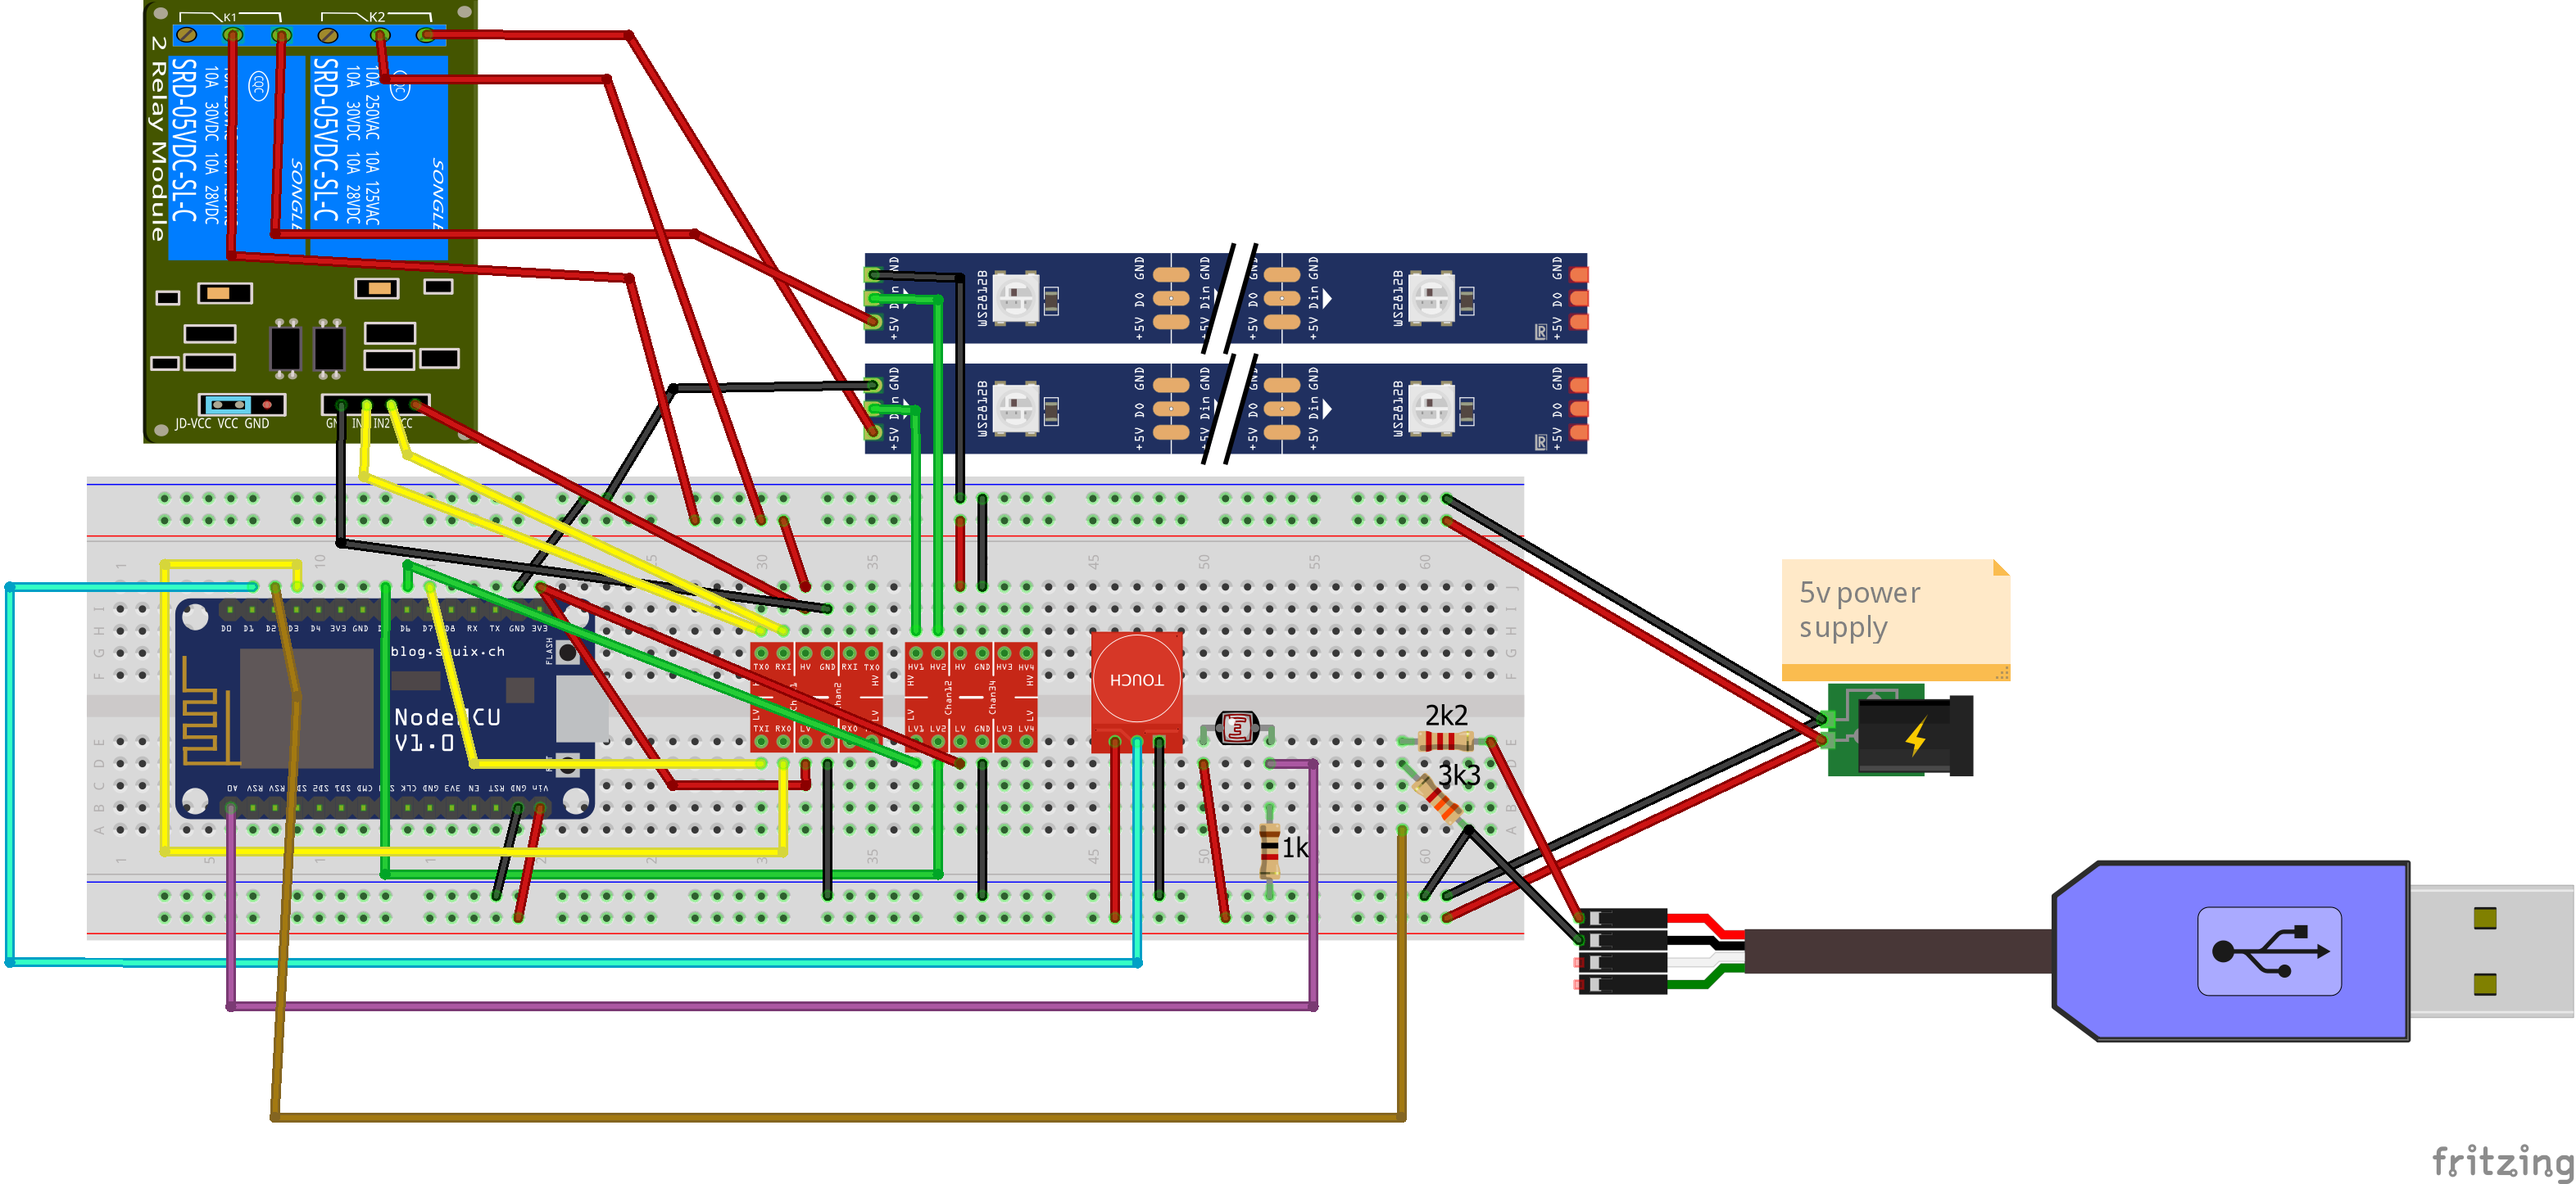
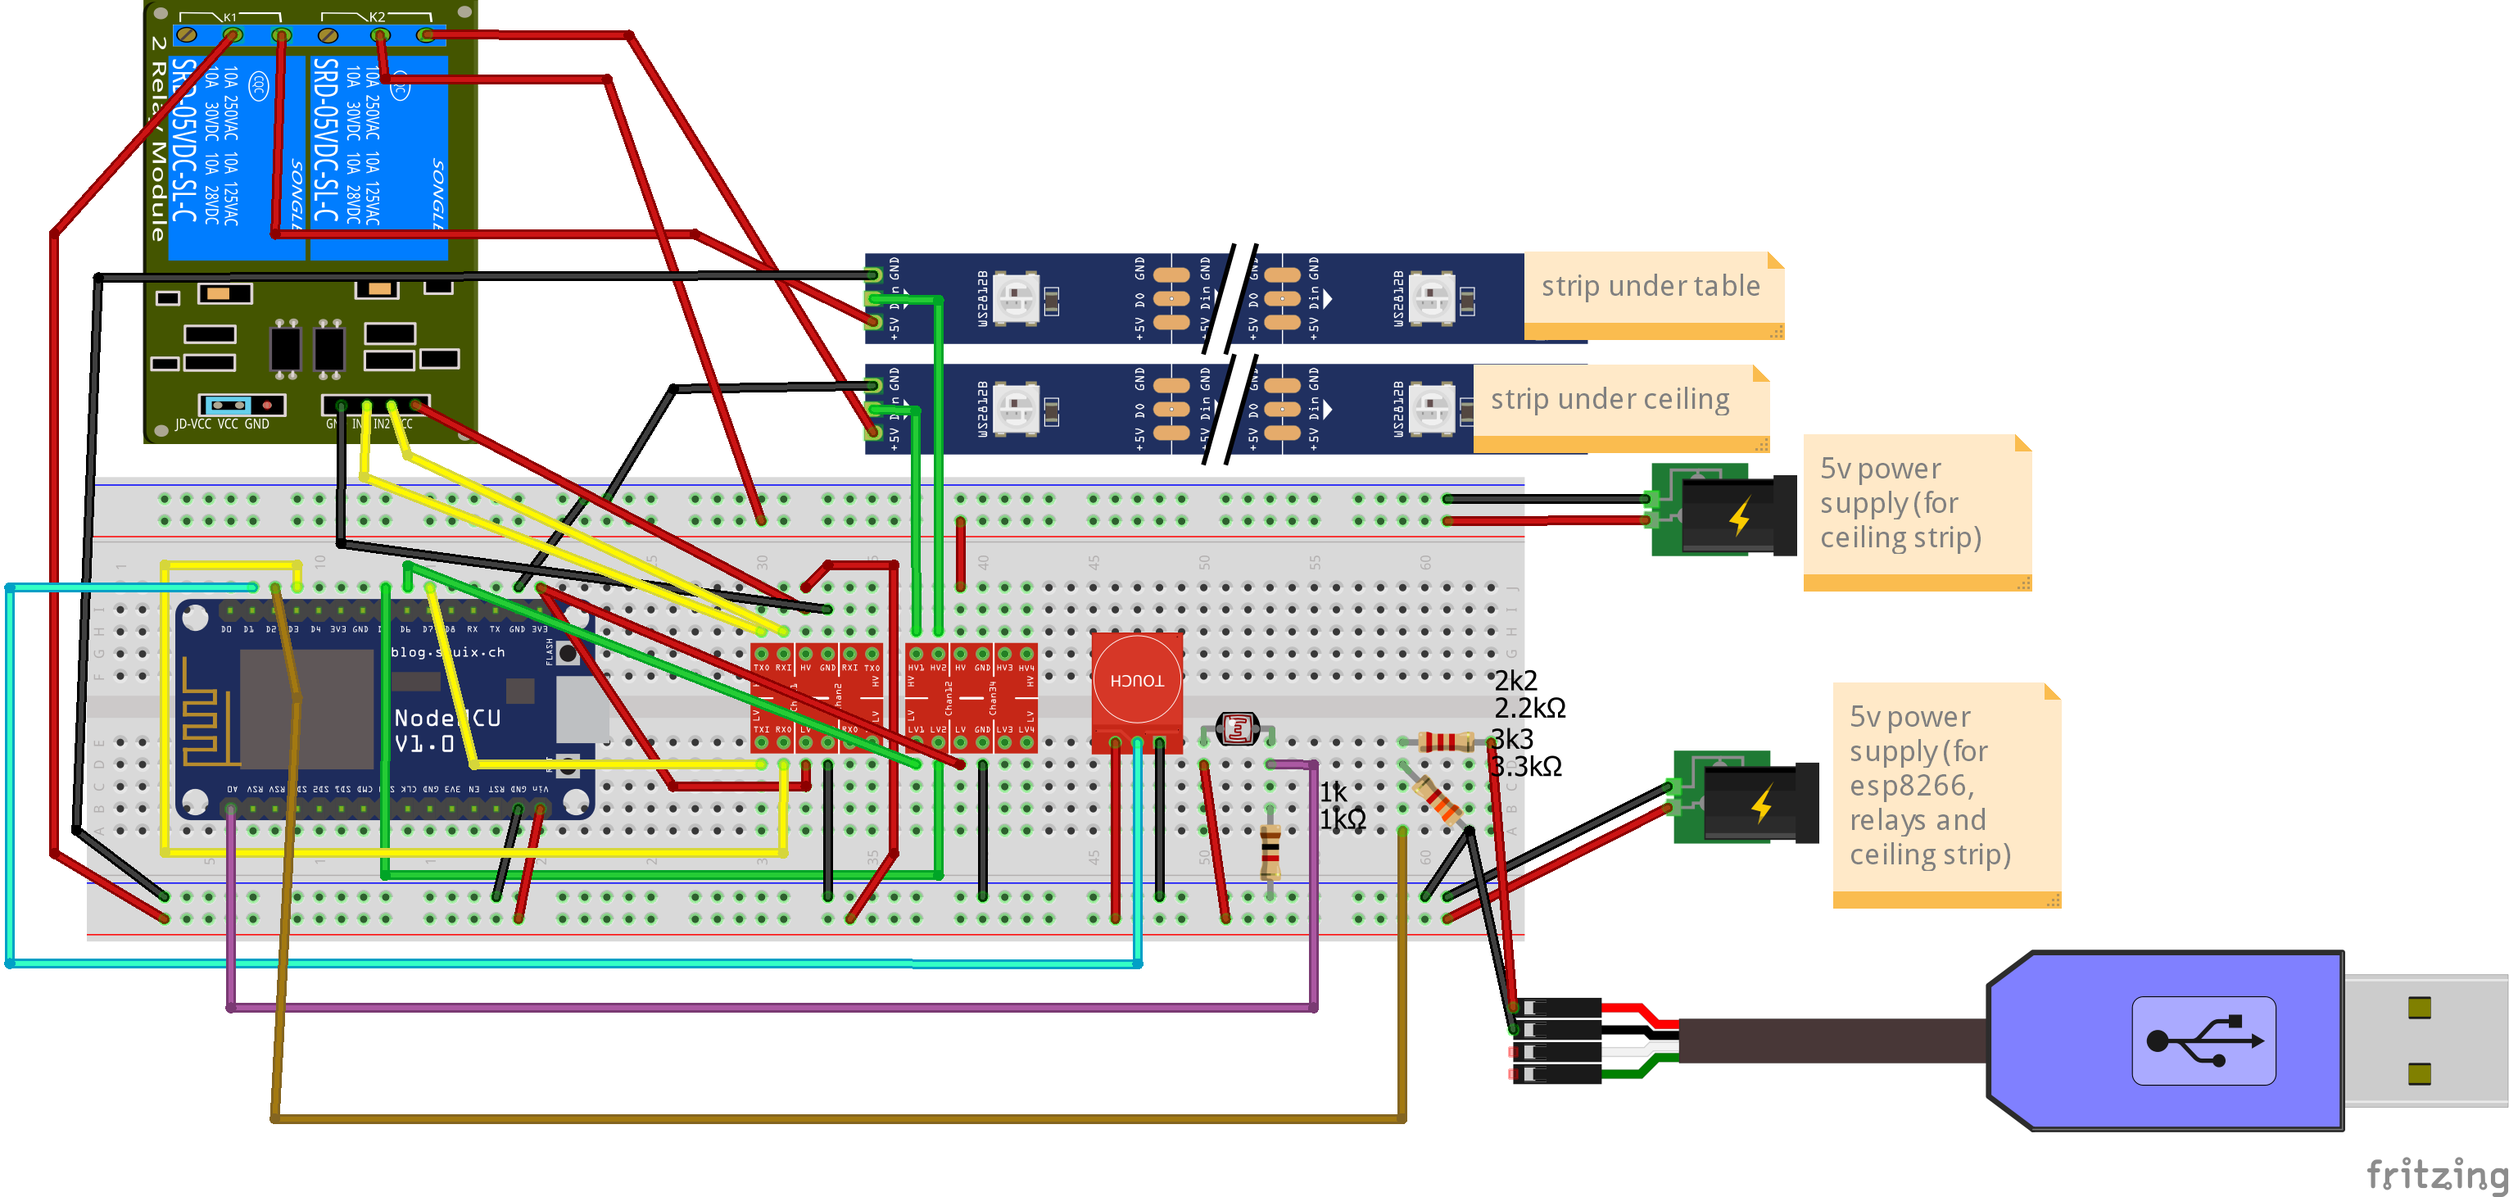
description update part 5

diff --git a/src/main.cpp b/src/main.cpp
@@ -13,7 +13,7 @@
 int i = 0;
 int g = 0;
 int red, green, blue, mode;
-int brightness = 250;
+int brightness = 255;
 int led_end = 40;           //end animation led
 int led_end1 = 80;          //end animation led
 unsigned long delq = 10;    // start delay led_end
@@ -30,9 +30,9 @@ CRGB ledss[NUM_LEDSs];
 uint8_t gHue = 0;
 uint8_t gHue1 = 0;
 
-char auth[] = "PcGed1QmIraB4kAFjCwZ0Hq81aT710vS";
-char ssid[] = "Tenda";
-char pass[] = "kamil2k19";
+char auth[] = "PcGed1QmIraB4kAFjCwZ0Hq81aT710vS"; //token blynk
+char ssid[] = "Tenda"; //your id  wifi
+char pass[] = "kamil2k19"; //your password wifi
 char server[] = "192.168.0.105"; // IP for Local Cloud Server
 //char server[] = "blynk-cloud.com";  // URL for Blynk Cloud Server
 

diff --git a/README.md b/README.md
@@ -1,10 +1,23 @@
 # Automatic two strips leds ws2812b.
 ## INSTRUCTIONS
-1.I used Blynk to administing my project.You must create server or buy energy on an official server.
-2.QR code project:
-![QR-code](/images/qr_code.jpg =250x250)
-3.Scheme:
-![Schemat](/images/qr_code.jpg)
-4.
+                
+1. I used Blynk to administing my project.You must create server or buy energy on an official server.
+2. QR code project:
+![QR-code](/images/qr_code.jpg)
+3. Scheme:
+![Schemat](/images/schemat.png)
+4. Upload code to esp8266.(https://github.com/Firemanpl/ws2812b-automatic-on-lights/blob/master/src/main.cpp "link to code") You can use arduino IDE or Visiual Stuio code with platorm IO.(If you can VS code with platform IO You can copy all project and paste as new project)
 
+                
+## You'll need:
+- two strips ws2812b  
+- esp8266 node mcu v1.0 or similar board. x1
+- ttp223 x1
+- power supply 5v and (it depends on how many meters of strips you will need)
+- power supply 5 3-4A (for esp8266 and two relays)
+- relay 5v x2
+- level converter module x2
+- fotoresistor x1
+- resistor (1k,2k2,3k3)
+- usb cable 
 
